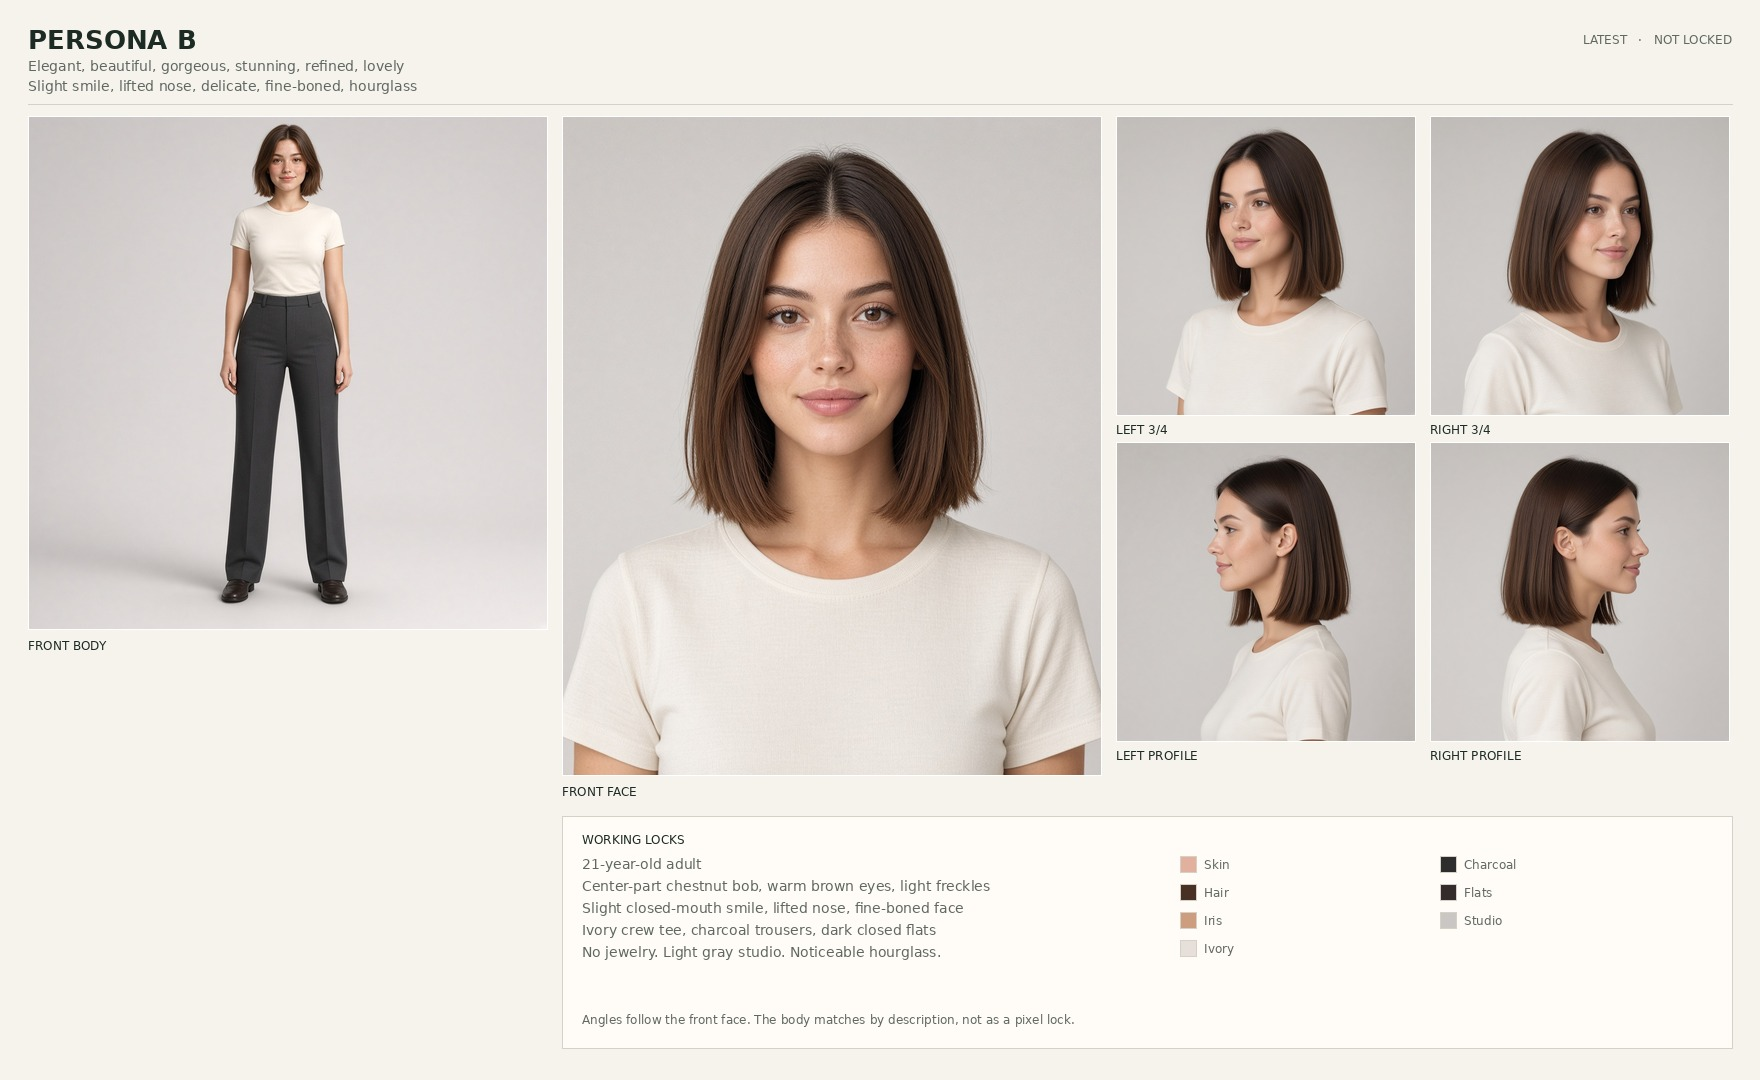
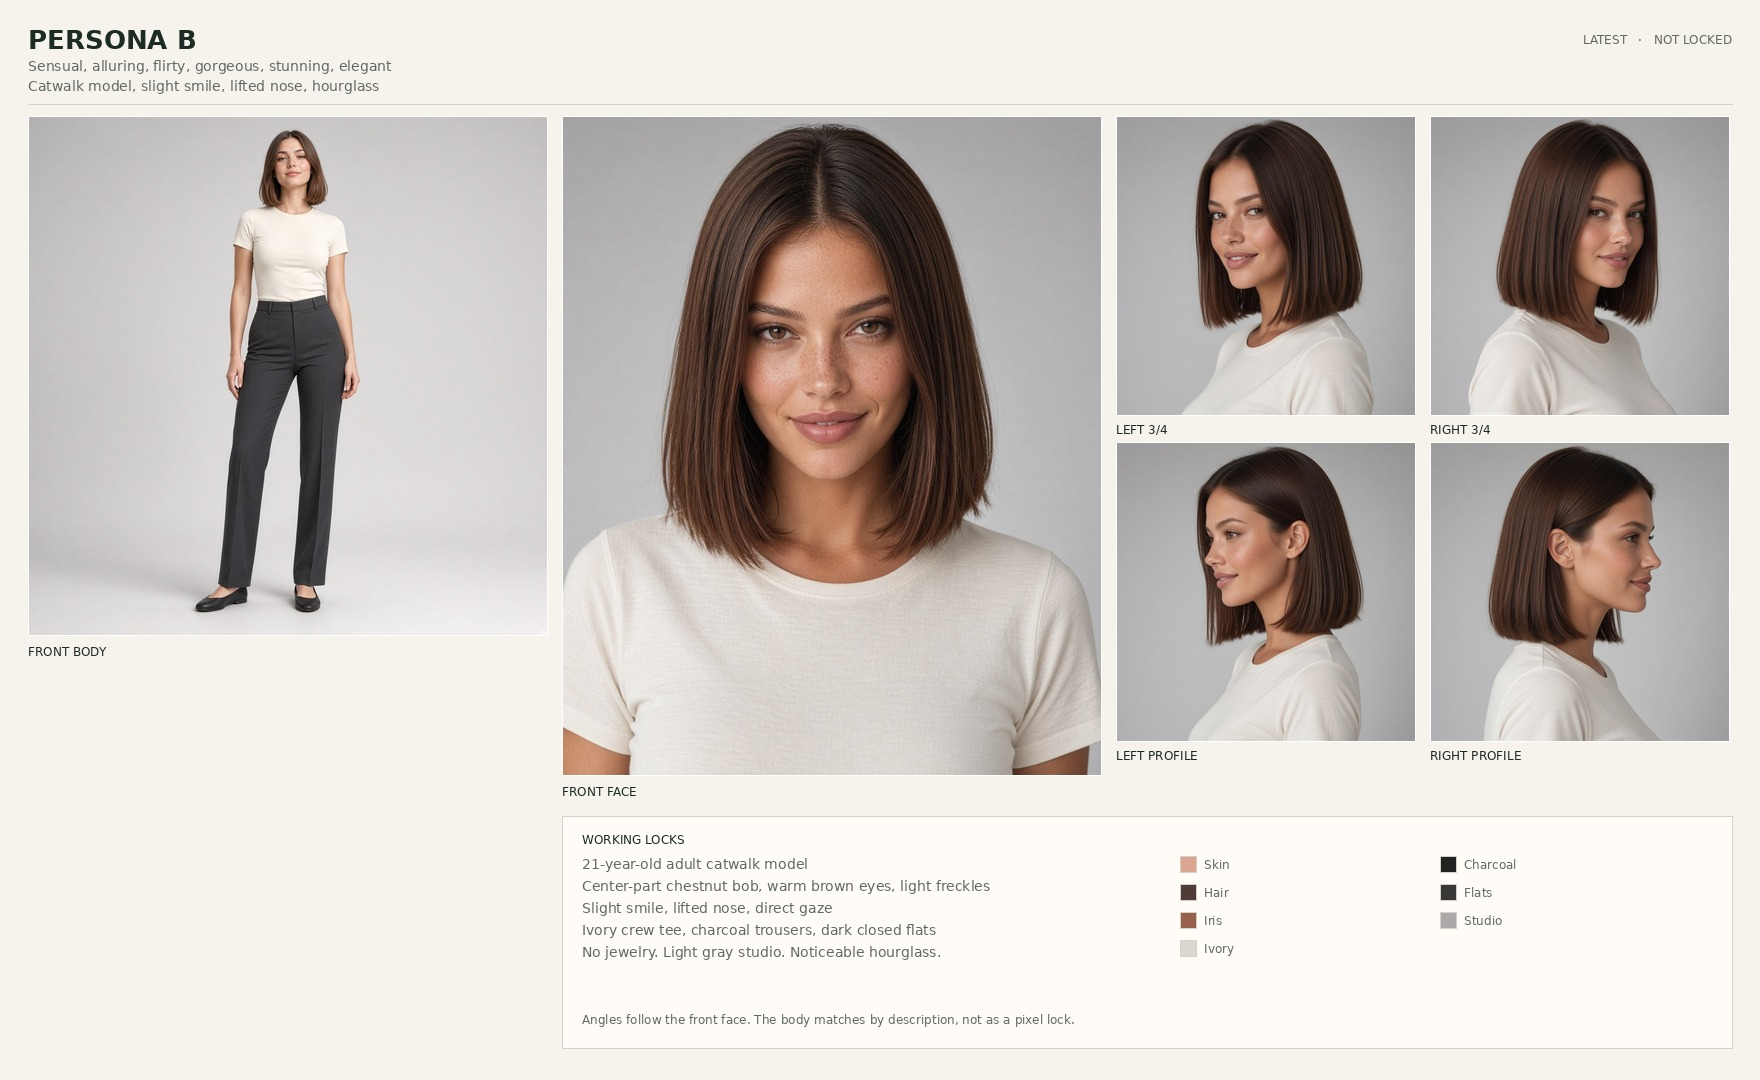
feat: shift Persona B toward a catwalk-model presence
Adult 21, still in plain studio clothes. Flirtier face, hip-shifted hourglass stance, same slight smile on the angles.

diff --git a/latest_sheet.py b/latest_sheet.py
@@ -21,18 +21,18 @@ CARD = (255, 252, 247)
 FONT = '/usr/share/fonts/truetype/dejavu/DejaVuSans.ttf'
 FONT_BOLD = '/usr/share/fonts/truetype/dejavu/DejaVuSans-Bold.ttf'
 SWATCHES = (
-    ('face_front.jpg', (0.44, 0.38), 'Skin'),
-    ('face_front.jpg', (0.34, 0.34), 'Hair'),
-    ('face_front.jpg', (0.40, 0.42), 'Iris'),
-    ('face_front.jpg', (0.50, 0.90), 'Ivory'),
-    ('body_front.jpg', (0.54, 0.70), 'Charcoal'),
-    ('body_front.jpg', (0.42, 0.92), 'Flats'),
+    ('face_front.jpg', (0.48, 0.38), 'Skin'),
+    ('face_front.jpg', (0.32, 0.32), 'Hair'),
+    ('face_front.jpg', (0.38, 0.42), 'Iris'),
+    ('face_front.jpg', (0.48, 0.90), 'Ivory'),
+    ('body_front.jpg', (0.56, 0.68), 'Charcoal'),
+    ('body_front.jpg', (0.52, 0.93), 'Flats'),
     ('face_front.jpg', (0.08, 0.08), 'Studio'),
 )
 LOCKS = (
-    '21-year-old adult',
+    '21-year-old adult catwalk model',
     'Center-part chestnut bob, warm brown eyes, light freckles',
-    'Slight closed-mouth smile, lifted nose, fine-boned face',
+    'Slight smile, lifted nose, direct gaze',
     'Ivory crew tee, charcoal trousers, dark closed flats',
     'No jewelry. Light gray studio. Noticeable hourglass.',
 )
@@ -131,8 +131,8 @@ def render_latest_sheet(folder):
     draw.text((28, 24), 'PERSONA B', fill=INK, font=title)
     status = 'LATEST   ·   NOT LOCKED'
     draw.text((WIDTH - 28 - draw.textlength(status, font=eyebrow), 32), status, fill=MUTED, font=eyebrow)
-    draw.text((28, 58), 'Elegant, beautiful, gorgeous, stunning, refined, lovely', fill=MUTED, font=sub)
-    draw.text((28, 78), 'Slight smile, lifted nose, delicate, fine-boned, hourglass', fill=MUTED, font=sub)
+    draw.text((28, 58), 'Sensual, alluring, flirty, gorgeous, stunning, elegant', fill=MUTED, font=sub)
+    draw.text((28, 78), 'Catwalk model, slight smile, lifted nose, hourglass', fill=MUTED, font=sub)
     draw.line((28, 104, WIDTH - 28, 104), fill=RULE, width=1)
 
     body_fill = _sample(sources['body_front.jpg'], (0.06, 0.06))
